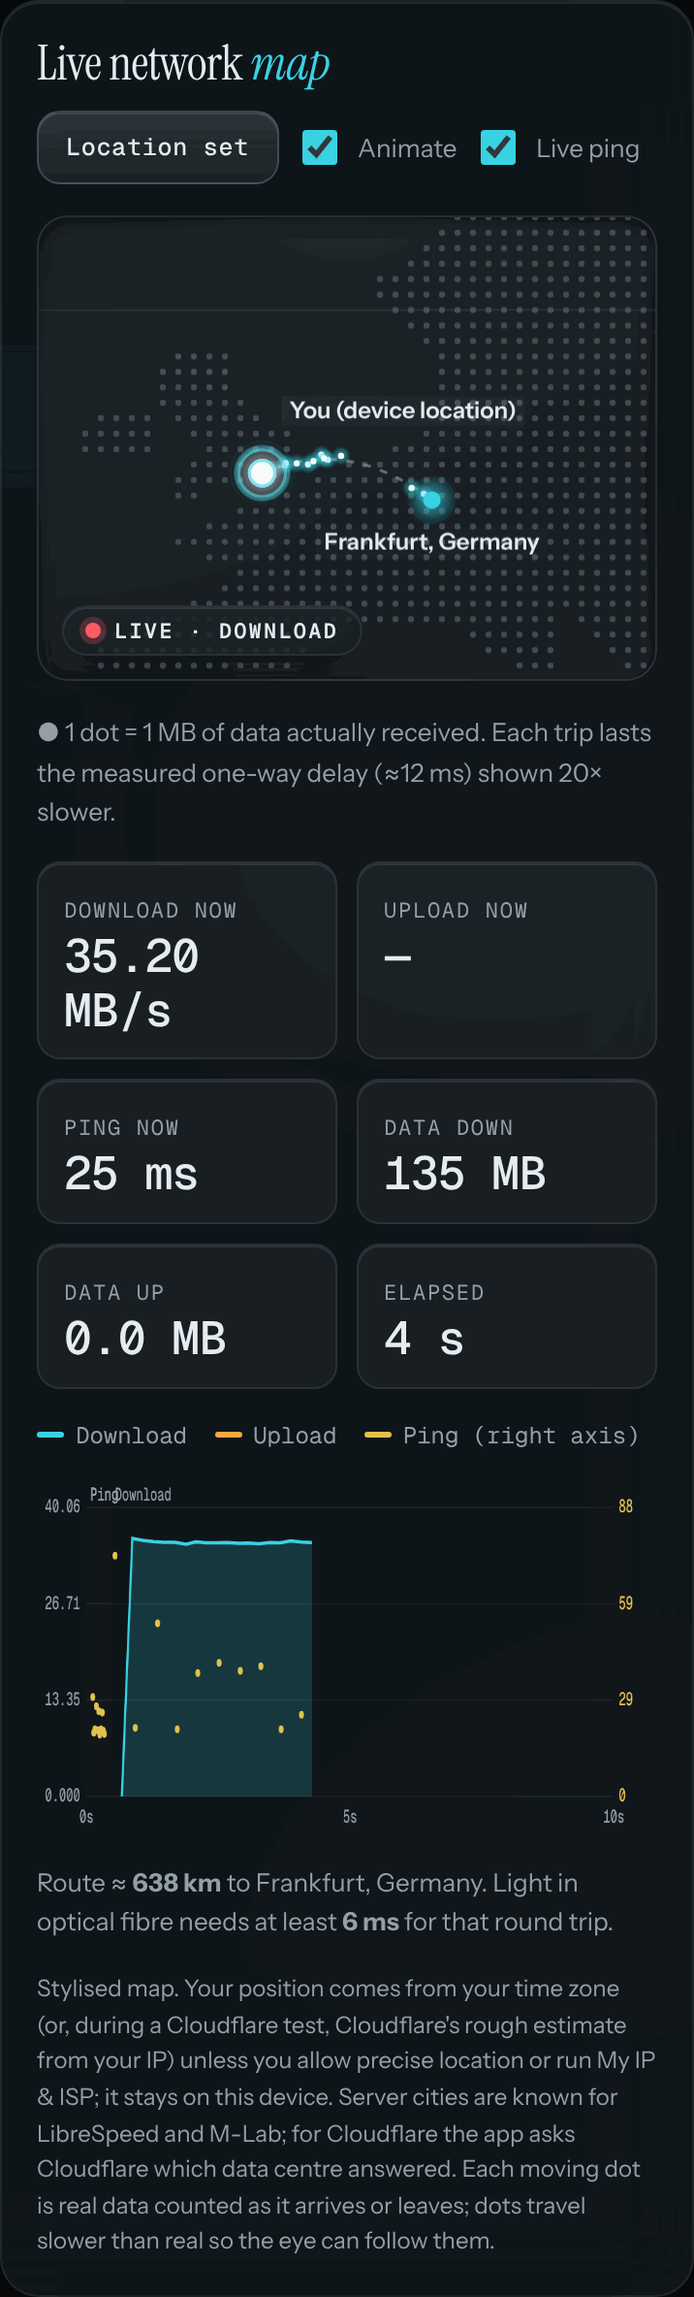
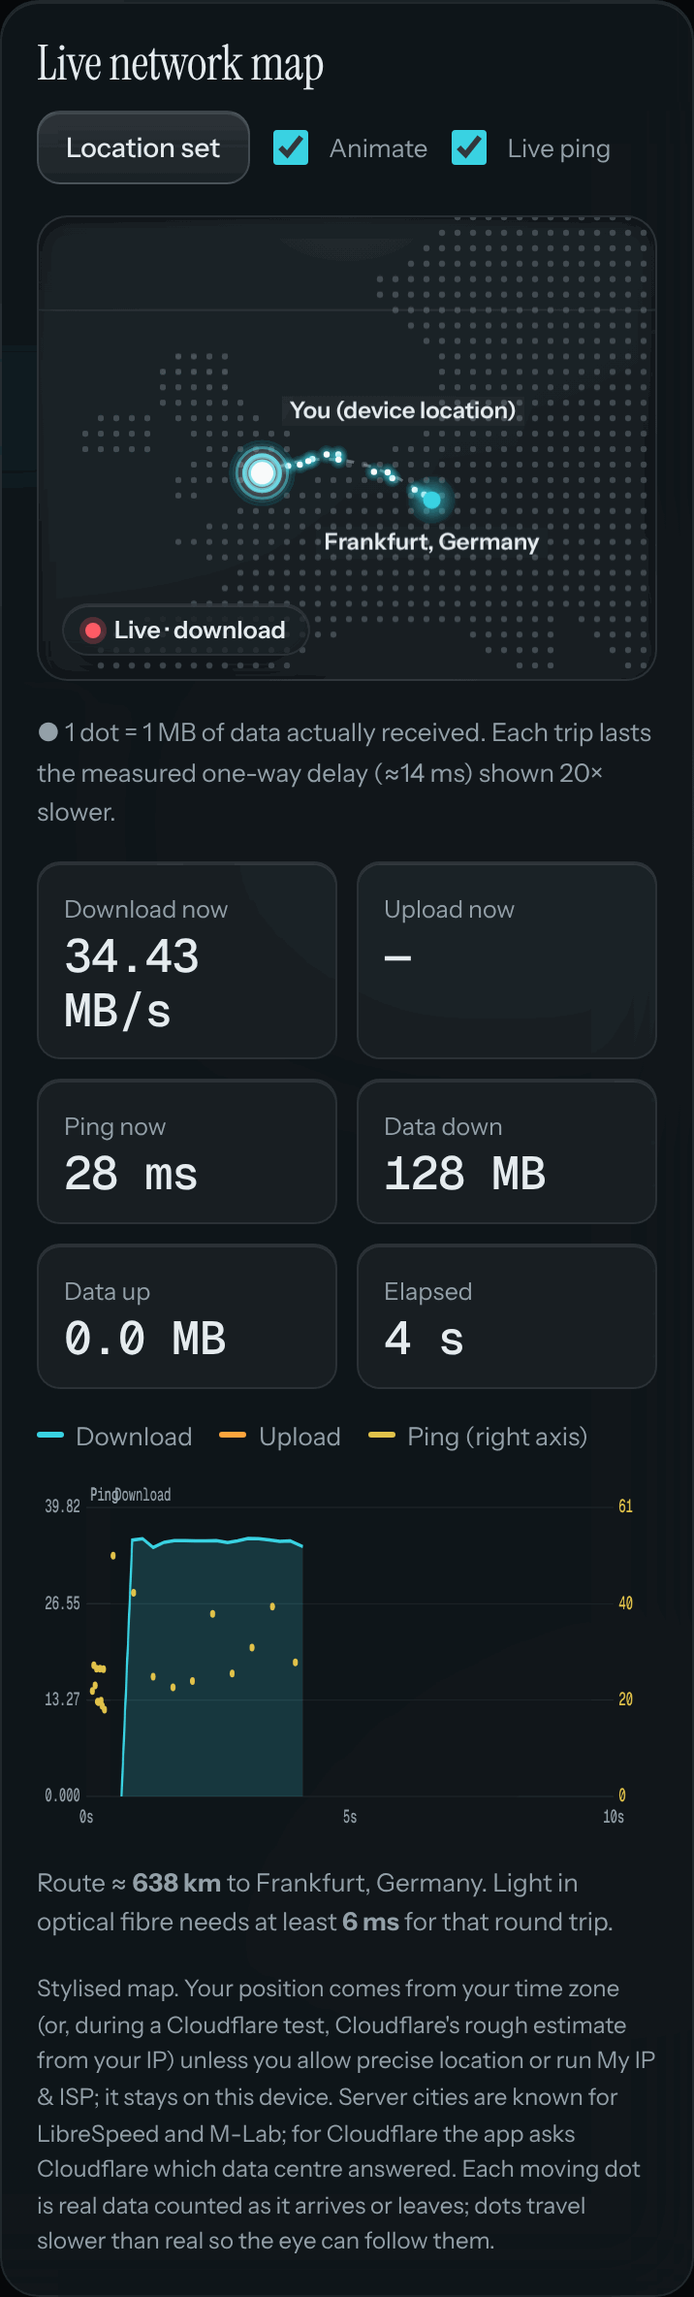
Teardown doc, accessibility and testing docs, refreshed screenshots
- docs/TEARDOWN.md: design, usability (Nielsen) and WCAG 2.2 AA audit
  with every finding and fix, plus cross-browser bugs found by the tests
- README: Accessibility and Testing sections, tree, server /oui.txt
- DESIGN.md: typography roles (sans labels/buttons, mono only for
  numbers), anti-template rules, testing and forced-colours notes
- Tap-size test tolerates sub-pixel rounding

Claude-Session: https://claude.ai/code/session_01WewRtG4UNMSrnVFMQRkw9g

diff --git a/tests/run.py b/tests/run.py
@@ -295,7 +295,7 @@ def wcag(browser, port):
     # touch targets on phones, reflow, text spacing, reduced motion
     ctx, page = new_page(browser, port, width=390, height=844, mobile=True)
     if browser.browser_type.name != "firefox":
-        small = page.evaluate("""()=>[...document.querySelectorAll('button,a[href],input,select,summary')].filter(e=>e.offsetParent&&!e.closest('p,li,td,.note')).filter(e=>!['checkbox','radio'].includes(e.type)).filter(e=>e.getBoundingClientRect().height<44).map(e=>(e.id||e.textContent.trim().slice(0,16))+':'+Math.round(e.getBoundingClientRect().height))""")
+        small = page.evaluate("""()=>[...document.querySelectorAll('button,a[href],input,select,summary')].filter(e=>e.offsetParent&&!e.closest('p,li,td,.note')).filter(e=>!['checkbox','radio'].includes(e.type)).filter(e=>e.getBoundingClientRect().height<43.5).map(e=>(e.id||e.textContent.trim().slice(0,16))+':'+Math.round(e.getBoundingClientRect().height))""")
         check("touch targets ≥ 44 px on phones", not small, ", ".join(small[:6]))
     page.add_style_tag(content="*{line-height:1.5!important;letter-spacing:.12em!important;word-spacing:.16em!important}p{margin-bottom:2em!important}")
     page.wait_for_timeout(200)

diff --git a/README.md b/README.md
@@ -27,7 +27,7 @@ Tests the internet speed of Wi-Fi, mobile data and Ethernet **without ads, track
 6. [Install, use and self-host](#install-use-and-self-host)
 7. [Troubleshooting](#troubleshooting)
 8. [Limitations](#limitations)
-9. [Architecture](#architecture) · [Design system](#design-system)
+9. [Architecture](#architecture) · [Design system](#design-system) · [Accessibility](#accessibility) · [Testing](#testing)
 10. [Data sources and licences](#data-sources-and-licences)
 11. [Changelog](#changelog)
 
@@ -37,7 +37,7 @@ Tests the internet speed of Wi-Fi, mobile data and Ethernet **without ads, track
 
 | Area | Features |
 |---|---|
-| **Speed test** | Download, upload, idle ping, jitter and **loaded ping** (latency while the line is busy). Live gauge and throughput chart. Stop at any time; **RETEST** after a run. |
+| **Speed test** | Download, upload, idle ping, jitter and **loaded ping** (latency while the line is busy). Live gauge and throughput chart. Stop at any time; **Retest** after a run. |
 | **Units** | Bytes or bits per second: KB/s, MB/s, GB/s, Kbps, Mbps, Gbps. Decimal (1000) or binary (1024, shown as MiB/s, Mibps). |
 | **Servers** | Automatic (lowest ping), Cloudflare (anycast), Measurement Lab (ndt7), 22 LibreSpeed volunteer servers worldwide, or your own server. "Measure ping to all" compares them. |
 | **Live map** | Route from you to the test server with animated data flow, live download/upload/ping tiles and a telemetry timeline. |
@@ -57,7 +57,7 @@ Tests the internet speed of Wi-Fi, mobile data and Ethernet **without ads, track
 | Ready | Testing | Done |
 |:--:|:--:|:--:|
 | <img src="docs/screenshots/01-home.png" width="250"> | <img src="docs/screenshots/02-test-running.png" width="250"> | <img src="docs/screenshots/03-results.png" width="250"> |
-| Tap **GO**. The tiles show the most recent saved result. | The gauge and chart update live. **Stop test** cancels instantly. | **RETEST** replaces GO. The chart overlays download (cyan) and upload (amber). |
+| Tap **Go**. The tiles show the most recent saved result. | The gauge and chart update live. **Stop test** cancels instantly. | **Retest** replaces GO. The chart overlays download (cyan) and upload (amber). |
 
 - **Steps** at the top light up in order: Ping → Download → Upload.
 - **Network** — pick Wi-Fi, Mobile or Ethernet. Browsers on iPhone don't reveal the connection type, so CleanSpeed asks once and remembers. Where the browser does report it (some Android/desktop Chrome builds), it's detected automatically.
@@ -324,6 +324,7 @@ python3 server/server.py --port 8080
 | `GET /down?bytes=N` | N bytes of random data (max 100 MB per request) |
 | `POST /up` | Reads and discards the body |
 | `GET /` | Serves `../index.html` (the app) |
+| `GET /oui.txt` | The MAC maker registry, so Device lookup works offline when self-hosted |
 
 Open `http://<server-ip>:8080/` to run CleanSpeed against it directly — good for testing your LAN or Wi-Fi without the internet in the way. To use it from the GitHub Pages copy instead (**Change server → Your own server**), it must be served over **https** (put Caddy or nginx in front), because browsers block http requests from https pages.
 
@@ -387,6 +388,9 @@ flowchart LR
 ├── oui-LICENSE.txt       # licence for oui.txt
 ├── fonts/                # Instrument Sans, Instrument Serif, Geist Mono (Latin subset, WOFF) + OFL licences
 ├── DESIGN.md             # design system: tokens, components, motion, accessibility
+├── tests/run.py          # end-to-end + WCAG 2.2 AA tests (Chromium, Firefox, WebKit)
+├── .github/workflows/    # CI: runs the tests on every push
+├── docs/TEARDOWN.md      # design, usability and accessibility audit
 ├── server/
 │   └── server.py         # optional self-hosted test server
 └── docs/screenshots/     # images used in this README (sample data)
@@ -403,13 +407,46 @@ flowchart LR
 The look and behaviour are written down in **[DESIGN.md](DESIGN.md)**, so every change stays consistent.
 
 - **Glass instrument:** frosted-glass panels over still cyan and amber light, engraved wells for readouts and inputs, and lit 3D objects — the GO sphere, a glass dial with a bead on the needle, colour-coded tool chips — all lit from the top-left. No violet.
-- **Typography:** Instrument Serif for section titles (with one italic accent word), Instrument Sans for reading text, Geist Mono for every number, label and button. The fonts are bundled, so the page makes no font requests.
+- **Typography:** Instrument Serif for section titles, Instrument Sans for reading text, labels and buttons (sentence case), Geist Mono only for numbers, units and addresses. The fonts are bundled, so the page makes no font requests.
 - **One meaning per colour:** cyan is always download, amber is always upload; green / yellow / red only for pass / caution / fail, and always with words.
 - **One button family:** a cyan glass object for the main action, raised glass for the rest, tinted red glass for Stop.
 - **Motion with a job:** one entrance on load, hover lift and press on controls (140–220 ms), live data. No pulsing dots, looping rings, tilt or fade-in-on-scroll. Animation loops stop when nothing changes. With *Reduce motion* turned on in your system settings, transitions are cut and the map starts without animation.
 - **Fits every screen:** one column on phones (320 px and up), stacked panels on tablets, two-column speed test and wider spacing on laptops and desktops; the throughput chart stretches to fill the space.
 - **Browsers:** Chrome / Edge 111+, Safari 16.2+ (Mac, iPhone, iPad), Firefox 113+. Browsers without backdrop blur get solid panels.
 - **Accessibility (WCAG 2.2 AA):** text contrast at least 4.5:1 in both themes, visible focus outlines, touch targets at least 44 px, no sideways scrolling at 320 px.
+
+## Accessibility
+
+CleanSpeed targets **WCAG 2.2 level AA** and is checked automatically on every push.
+
+- **Keyboard:** every control is reachable with Tab, focus is always visible, and the first Tab stop is *Skip to the speed test*.
+- **Screen readers:** landmarks (`header`, `main`, `footer`), labelled charts and map, toggle buttons that announce their state, and a live status line that announces "Testing download…", "Done." and errors.
+- **Vision:** text contrast at least 4.5:1 in both themes (including every stop of the button gradients), colour never carries meaning alone, text spacing and 200% text don't break the layout, and Windows high-contrast mode keeps every panel and control outlined.
+- **Touch and motion:** targets at least 24 px everywhere and 44 px on touch screens; *Reduce motion* cuts transitions and starts the map without animation.
+
+The latest audit, with every finding and fix, is in **[docs/TEARDOWN.md](docs/TEARDOWN.md)**. Still worth doing by hand before a release: a full pass with VoiceOver and NVDA, and 400% zoom on desktop.
+
+## Testing
+
+```bash
+pip install playwright
+python -m playwright install chromium firefox webkit
+npm install --no-save axe-core@4.10.2          # optional: adds the axe-core WCAG scan
+AXE_PATH=node_modules/axe-core/axe.min.js python tests/run.py
+python tests/run.py --browser webkit           # one engine (WebKit = Safari's engine)
+```
+
+The suite starts `server/server.py` on localhost (it serves the app and acts as the speed-test server) and answers every other request with fictional fixtures, so it never touches the internet or anyone's real data. It covers:
+
+| Area | Checks |
+|---|---|
+| Speed test | Own server selected, download and upload measured, Stop within 3 s, Retest, history saved, unit switch, CSV export, page and chart height stay sane after a test |
+| Router check | Score shown, exploited record flagged, fix links only on the maker's domain, third-party exploit write-ups never linked, no beta firmware, other firmware lines not marked as affecting |
+| Toolkit | Subnet (carrier-grade NAT), data calculator, password generator, device lookup from the bundled registry (incl. private and invalid addresses), IP lookup, DNS benchmark |
+| Layout | No sideways scroll at 320, 390, 768, 1024 and 1440 px in dark and light themes |
+| WCAG 2.2 AA | Contrast (text and gradient stops), names, roles and states, landmarks, skip link, headings, labelled graphics, live status, target size (24 px; 44 px on touch), keyboard reach, visible focus, no trap, reflow at 320 px / 200% text, text spacing, reduced motion, axe-core rules |
+
+GitHub Actions runs the whole suite in **Chromium, Firefox and WebKit** on every push ([`.github/workflows/tests.yml`](.github/workflows/tests.yml)).
 
 ## Data sources and licences
 
@@ -431,7 +468,8 @@ CleanSpeed is not affiliated with Ookla, Speedtest®, Cloudflare, M-Lab, LibreSp
 
 | Commit | Change |
 |---|---|
-| *latest* | Typography: Instrument Serif titles with italic accents, Instrument Sans text, Geist Mono numbers and labels; fonts bundled (no Google Fonts request); canvases redraw when fonts load |
+| *latest* | Teardown and testing: WCAG 2.2 AA fixes (skip link, main landmark, ARIA roles, labelled charts, live status, gradient contrast, target sizes, forced colours); design fixes (no accent-word headings, sentence-case labels, mono only for numbers); Safari chart-height bug fixed; automated tests in Chromium, Firefox and WebKit on every push; [docs/TEARDOWN.md](docs/TEARDOWN.md) |
+| `3cd2379` | Typography: Instrument Serif titles with italic accents, Instrument Sans text, Geist Mono numbers and labels; fonts bundled (no Google Fonts request); canvases redraw when fonts load |
 | `c56eb8d` | Glass instrument redesign: frosted-glass panels over still light fields, engraved wells, 3D GO sphere, glass dial with bead, colour-coded 3D tool chips, raised segmented controls, one entrance on load and hover lift; chart fills the readout column on wide screens; layouts checked at 320–1440 px; Safari prefixes and solid fallback; glass app icon |
 | `d284597` | Redesign: instrument-panel design system ([DESIGN.md](DESIGN.md)); flat dial gauge; cyan download / amber upload; one button family; no glows, pulses or tilt; gauge stops redrawing when idle; reduced-motion support; 44 px touch targets; contrast checked in both themes; new app icon |
 | `200e531` | Live map: dots driven by real bytes and measured delay, live ping after a test, Cloudflare data-centre lookup, zoom to fit short routes, labels never cover markers or the route |

diff --git a/docs/TEARDOWN.md b/docs/TEARDOWN.md
@@ -1,0 +1,74 @@
+# CleanSpeed teardown
+
+A critical review of the live app, done the way a design lead, a QA engineer and an accessibility auditor would each tear it down. Every finding lists what was wrong, why it matters, and what changed. Screens referenced are in [`docs/screenshots`](screenshots) (fictional sample data).
+
+**Method**
+- **Design review** against the frontend-design principles: does every choice come from the subject (a measuring instrument), or from a template?
+- **Usability review** against Nielsen's 10 heuristics.
+- **Accessibility audit** against WCAG 2.2 level AA: automated (axe-core 4.10 plus 20+ custom checks in [`tests/run.py`](../tests/run.py)) in Chromium, Firefox and WebKit, plus manual keyboard checks.
+- **Cross-browser testing** of every flow in all three engines on every push ([`.github/workflows/tests.yml`](../.github/workflows/tests.yml)).
+
+---
+
+## 1. Design teardown
+
+| # | Finding | Why it matters | Change |
+|---|---|---|---|
+| D1 | Section titles accented one word in italic colour ("Live network *map*"). | Highlighting a single word in every headline is one of the most common signs of a generated page. It adds no information. | Titles are plain Instrument Serif. The only italic left is the logotype "Clean*Speed*". |
+| D2 | Every small label was tracked-out ALL CAPS in monospace ("DOWNLOAD", "RESPONSIVENESS UNDER LOAD", table headers, badges). | All-caps text is harder to read at small sizes and shouts. Monospace for small labels is template chrome. | Labels, table headers, badges and status text are sentence case in Instrument Sans. Geist Mono is now used only where its fixed width helps: numbers, units, MAC and IP addresses. |
+| D3 | Buttons were set in monospace capitals. | Buttons are verbs; they read faster in the text face. | One button family in Instrument Sans: "Run security check", "Change server", "Retest". |
+| D4 | Meta strings were joined with middle dots ("No ads · No trackers · Results stay…", footer, test status). | Dot-joined fragments are another template default, and screen readers read them as one run-on line. | Rewritten as sentences: "No ads or trackers. Your results stay on this device." Status: "Done. Tap Retest to test again." |
+| D5 | Before a test, half of the speed-test panel was an empty chart. | Empty space with no explanation looks broken. | The chart fills its column and says "Live throughput appears here during a test." |
+| D6 | Boldness was spread across many effects. | One memorable object beats many decorated ones. | The GO sphere and the glass dial are the single bold moment; everything else is quieter glass. |
+
+Kept on purpose: cyan download / amber upload everywhere, frosted glass with one light direction, one entrance on load, numbers in a tabular face.
+
+## 2. Usability teardown (Nielsen heuristics)
+
+| Heuristic | What works | Finding → change |
+|---|---|---|
+| Visibility of system status | Phase steps, live dial, live map, timeline | Status changes were only visual → the status line is now a live region, so screen readers hear "Testing download…", "Done." |
+| Match with the real world | Units in MB/s or Mbps, plain-language results ("HD streaming: Great") | — |
+| User control and freedom | Stop at any time, Retest, toggles for map animation and live ping | — |
+| Consistency and standards | One button family, one colour per direction | Three different label styles → one sentence-case label style |
+| Error prevention | Network type must be picked; router check explains each question | — |
+| Recognition rather than recall | History keeps every result; settings are remembered | — |
+| Flexibility and efficiency | Keyboard and touch, units, own server | Keyboard users had to tab through the whole header → skip link "Skip to the speed test" |
+| Aesthetic and minimalist design | See design teardown | Shouted labels and dot strings removed |
+| Help users recover from errors | Errors say what failed and what to do next | — |
+| Help and documentation | Inline "Where do I find these?" and the README | — |
+
+Open (not changed, worth considering): the page is long on phones and has no in-page navigation; opening a tool shows it below the tool grid, which can move the reading position.
+
+## 3. Accessibility audit (WCAG 2.2 AA)
+
+| Success criterion | Finding | Fix | Checked by |
+|---|---|---|---|
+| 1.1.1 Non-text content | Six canvases (dial, chart, map, timeline, ping chart, trend) had labels but no role, so the labels were ignored. | `role="img"` + `aria-label` on every canvas; decorative SVG icons stay `aria-hidden`. | custom check + axe |
+| 1.3.1 Info and relationships / 2.4.1 Bypass blocks | No `main` landmark and no skip link. | `<main id="main">` and a skip link that is the first Tab stop. | custom check |
+| 1.4.3 Contrast (minimum) | Dark theme: dark text on the darkest stop of the cyan button gradient was 4.28:1. Light theme: white text on the lightest stop was 1.53:1. | Gradient stops re-tuned: every stop now ≥ 4.8:1 against its text. | custom check (tests every gradient stop) + axe |
+| 1.4.10 Reflow | — | Passes at 320 px and with text at 200%. | custom check |
+| 1.4.12 Text spacing | — | Passes with WCAG's spacing override applied. | custom check |
+| 2.1.1 Keyboard / 2.1.2 No trap | — | Every control is reachable; no trap. | custom check |
+| 2.4.7 Focus visible | — | 2 px accent outline on every stop. | custom check |
+| 2.5.8 Target size (minimum) | The "Where do I find these?" disclosure was 20 px tall. | 28 px; every control is ≥ 24 px, and ≥ 44 px on touch screens. | custom check |
+| 2.3.3 Animation from interactions | — | With *Reduce motion* on, transitions are cut and the map starts unanimated. | custom check |
+| 4.1.2 Name, role, value | The network picker used `role="radio"` with `aria-pressed` (an invalid combination); router questions used `role="radiogroup"` around toggle buttons. Comparison bars had a label on an element with no role (axe: aria-prohibited-attr). | Toggle-button groups (`role="group"` + `aria-pressed`); comparison bars `role="group"`. | custom check + axe |
+| 4.1.3 Status messages | Test progress wasn't announced. | `role="status"` + `aria-live="polite"` on the status line; errors use `role="alert"`. | custom check |
+| 2.1.1 Keyboard (scrollable region) | The country ranking scrolls but couldn't be focused (axe: scrollable-region-focusable). | `tabindex="0"`, `role="region"` and a label. | axe |
+| Windows high contrast | Glass panels lost their edges. | `forced-colors` styles outline panels and controls. | manual |
+
+## 4. Cross-browser bugs found by the new tests
+
+| Engine | Bug | Cause | Fix |
+|---|---|---|---|
+| WebKit (Safari) | After one speed test the page grew to about 18,000 px tall, with a huge empty chart. | The chart canvas sized its own grid row, and each redraw made the row taller. | The canvas is absolutely placed inside a wrapper, so the row sizes the chart and never the reverse. Tests now assert page and chart height after a test. |
+| WebKit (Safari) | `ResizeObserver loop completed with undelivered notifications` error. | Same growth loop. | Same fix; chart redraws are batched into one animation frame. |
+| WebKit (Safari) | `overflow-x: hidden` on `body` made the body its own scroller. | WebKit doesn't always pass body overflow up to the page. | `overflow-x: clip`, which stops sideways scroll without creating a scroller. |
+
+## 5. Still to check by hand
+
+Automated tools catch many accessibility problems, but not all of them. Before a release, also:
+- Use the app with VoiceOver on iPhone and Mac, and NVDA on Windows, end to end.
+- Zoom to 400% on a desktop browser.
+- Check the router report's wording with someone who isn't technical.

diff --git a/DESIGN.md b/DESIGN.md
@@ -16,20 +16,20 @@ CleanSpeed should feel like a precision instrument made of glass: depth, light a
 ## Style Foundations
 - **Visual style:** frosted-glass panels over two still light fields (cyan top-left, amber bottom-right) and a faint dot grid; engraved "wells" for readouts and inputs; raised 3D objects (GO sphere, tool chips, segmented thumb, dial bead) lit from the top-left. Violet is never used.
 - **Typography:** three faces with one job each, bundled with the app (Latin subset, WOFF, SIL Open Font License) so no font request leaves the device.
-  - **Instrument Serif** (`--display`) — section titles, with one word set in italic accent colour ("Live network *map*"), and the italic half of the wordmark.
-  - **Instrument Sans** (`--body`, variable 400–700) — reading text, tool names and descriptions, notes.
-  - **Geist Mono** (`--mono`, `--num`, variable 100–900) — every number, unit, label, button and table.
+  - **Instrument Serif** (`--display`) — section titles (plain, no accent words) and the italic half of the wordmark.
+  - **Instrument Sans** (`--body`, variable 400–700) — reading text, labels, buttons, badges, table headers, tool names and descriptions.
+  - **Geist Mono** (`--mono`, `--num`, variable 100–900) — numbers, units, MAC and IP addresses only, where fixed widths help.
   - Fallbacks: ui-serif/Georgia, system-ui/-apple-system, ui-monospace/SF Mono. Antialiased, kerning on, `font-display: swap`; canvases redraw when the fonts arrive.
 
   | Token | Use | Face, size / weight |
   |---|---|---|
   | Wordmark | `h1` + glass chip | "Clean" Instrument Sans 600, 23 px · "*Speed*" Instrument Serif italic, 27 px, accent |
-  | Section title | `h2` | Instrument Serif 400, 25 px / 1.1, −0.01em, one italic accent word |
+  | Section title | `h2` | Instrument Serif 400, 25 px / 1.1, −0.01em |
   | Tool title | `.tool h3` | Instrument Serif 400, 22 px |
   | Primary value | `.val` | Geist Mono 500, clamp(30–46 px), tabular, soft halo in its direction colour |
   | Secondary value | `.small .val`, `.stat b`, `.bignum` | Geist Mono 500, 20–34 px |
-  | Label | `.lbl`, `th`, `.tag` | Geist Mono 500, 11 px, 0.09em tracking, uppercase |
-  | Control | buttons, segmented, chips | Geist Mono 500, 12.5–13 px |
+  | Label | `.lbl`, `th`, `.tag`, `.sev` | Instrument Sans 500, 12–13 px, sentence case |
+  | Control | buttons, segmented, chips | Instrument Sans 500–600, 13–14.5 px |
   | Body | `body`, `.conn`, tool descriptions | Instrument Sans 400, 15 px / 1.55 (descriptions 12.5–13 px) |
   | Note | `.note` | Instrument Sans 400, 13 px, `--muted` |
 
@@ -92,6 +92,8 @@ Plain and specific. Say what the number means and what to do next. Labels are no
 - Test new UI at 320, 390 and 1280 px, in both themes and with reduced motion.
 
 ## Rules: Don't
+- Don't accent one word in a heading, set labels in all caps, or join meta text with middle dots; write sentences.
+- Don't use monospace for words; it is for numbers, units and addresses.
 - Don't use violet, or mix light directions: every highlight comes from the top-left.
 - Don't put text directly on the light fields; text sits on glass or in wells.
 - Don't add looping or attention-seeking animation to status elements.
@@ -103,6 +105,11 @@ Plain and specific. Say what the number means and what to do next. Labels are no
 - Chrome / Edge 111+, Safari 16.2+ (macOS and iOS), Firefox 113+ (all use `color-mix`). Backdrop blur uses the standard property plus `-webkit-backdrop-filter` for Safari; browsers without blur get the solid panel colour.
 - The light fields are a fixed `body::before` layer, not `background-attachment: fixed`, which iOS Safari doesn't support.
 - Inputs use 16 px text on touch so iOS Safari doesn't zoom.
+
+## Testing
+`python tests/run.py` runs the end-to-end and WCAG 2.2 AA checks (contrast including every gradient stop, names, roles, landmarks, skip link, keyboard, focus, target sizes, reflow, text spacing, reduced motion, axe-core) in Chromium, Firefox and WebKit; CI runs it on every push. See [docs/TEARDOWN.md](docs/TEARDOWN.md) for the last audit.
+- Windows high contrast (`forced-colors`) outlines panels and controls.
+- The skip link is the first Tab stop and jumps to `<main>`.
 
 ## Quality Gates
 - Every text token must pass 4.5:1 on its surface in both themes.
